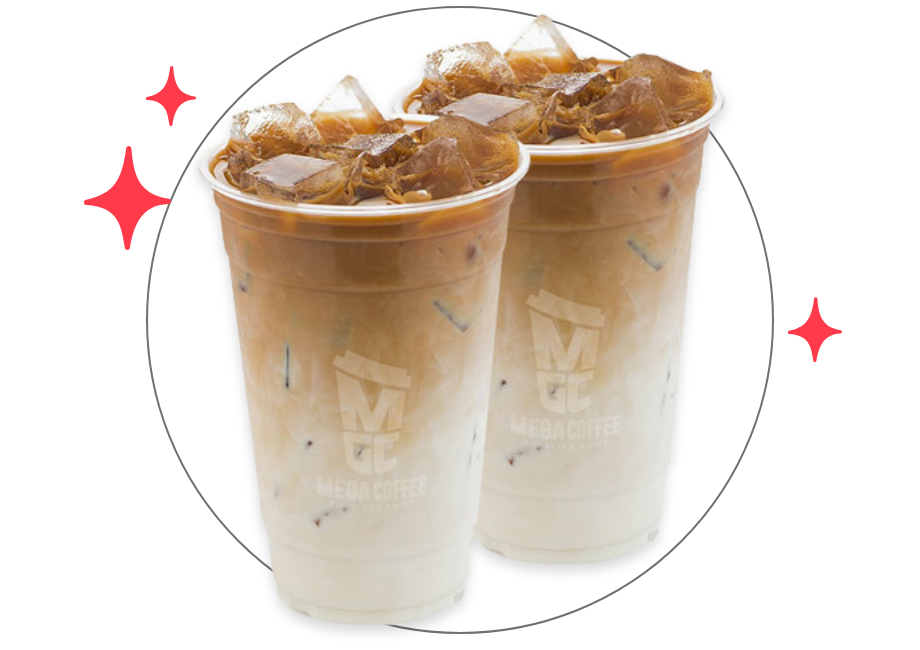
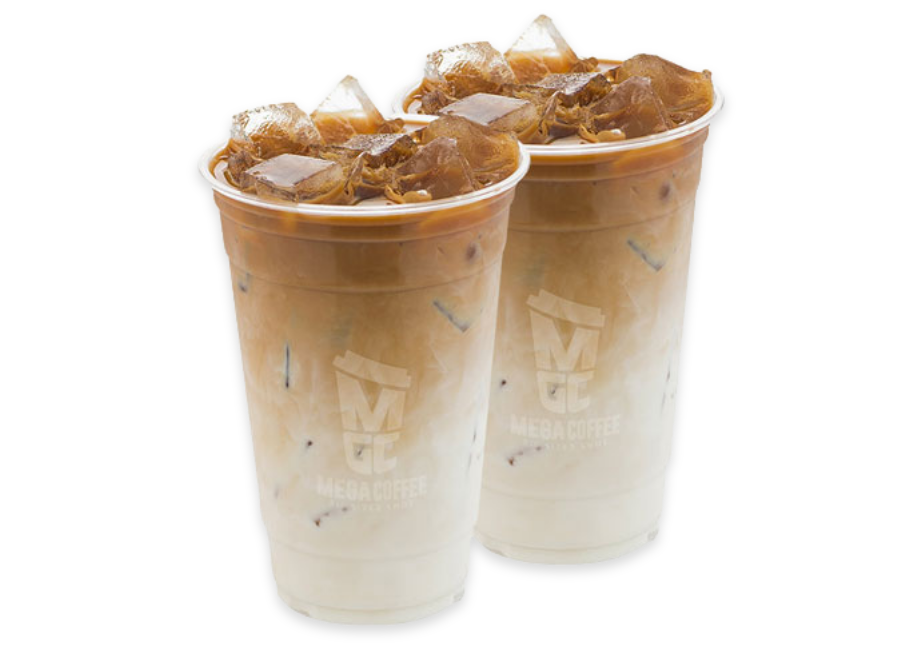
애니메이션 테스트.

diff --git a/event/ev_250730_review/html/ev_review_250730_test.html b/event/ev_250730_review/html/ev_review_250730_test.html
@@ -62,12 +62,32 @@
 		/* // 당첨 결과 문구 */
 
 		/* 당첨 결과 이미지 */
-		.result_product {margin-top:1.625em; padding:0 1.66666em;}
+		.result_product {position:relative; margin-top:1.625em; padding:0 1.66666em;}
 		.result_product .product_item {position:relative;}
 		.result_product .product_item .count {position:absolute; right:1.66666em; bottom:0.83333em; width:5em; height:5em; line-height:5em; text-align:center;}
-		.result_product .product_item .count::before {content:""; display:block; position:absolute; top:0; left:0; width:100%; height:100%; background:url('../images/count_bg.png') no-repeat left top / contain; animation: countBgAni 30s ease infinite;}
-		.result_product .product_item .count .total_count {position:relative; z-index:1; color:#fff; font-size:1.5em; font-weight:700; letter-spacing:-0.05em; text-shadow:0 0 2px rgba(0,0,0,0.16);}
+		.result_product .product_item::before {content:""; display:block; position:absolute; top:0; left:3.04166em; width:13.08333em; height:13.08333em; border:1px solid #707070; border-radius:100%; background-color:#fff;}
+		.result_product .product_item .count::before {content:""; display:block; position:absolute; top:0; left:0; width:100%; height:100%; background:url('../images/count_bg.svg') no-repeat left top / contain; animation: countBgAni 30s ease infinite;}
+		.result_product .product_item .count .total_count {position:relative; z-index:1; color:#fff; font-size:1.5em; font-weight:700; letter-spacing:-0.05em; text-shadow:0 0.08333em 0.16666em rgba(0,0,0,0.16);}
+		.result_product .product_item::before {animation: countBgAni 4s linear infinite; transform-origin:50% 49%;}
+
+		.result_product span.star,
+		.result_product::before,
+		.result_product::after {content:""; display:block; position:absolute; width:1.045em; height:1.25em; background:url('../images/deco_star.svg') no-repeat left top / contain;
+			animation-duration:1.4s;
+			animation-iteration-count:infinite;
+			animation-timing-function: ease-in-out;
+			animation-fill-mode:forwards;
+			opacity:0.5;
+		}
+		.result_product span.star {top:2.41666em; left:3.9375em; width:1.8125em; height:2.16458em; animation-name:starAni; animation-delay:0s;}
+		.result_product::before {top:0.6875em; left:5.75em; animation-name:starAni; animation-delay:0.5s;}
+		.result_product::after {top:6.33333em; right:3.29166em; animation-name:starAni; animation-delay:0.3s;}
 		@keyframes countBgAni {0% {transform:rotate(0deg);} 100% {transform:rotate(360deg);}}
+		@keyframes starAni {
+			0% {transform:scale(0.9); opacity:0.7;}
+			50% {transform:scale(1.1); opacity:1;}
+			100% {transform:scale(0.9); opacity:0.7;}
+		}
 		/* // 당첨 결과 이미지 */
 
 		/* 기프트샵 확인 방법 */
@@ -85,7 +105,7 @@
 
 		/* 기프트샵 바로가기 */
 		.gitfshop_wrap .btn_giftshop {display:flex; align-items:center; justify-content:center; gap:0.41666em; height:3.33333em; margin:1.25em auto 0; background-color:#FF3A4A; border-radius:0.83333em;}
-		.gitfshop_wrap .btn_giftshop strong.txt {display:inline-block; color:#fff; font-size:1em; font-weight:700;}
+		.gitfshop_wrap .btn_giftshop strong.txt {display:inline-block; color:#fff; font-size:1em; font-weight:700; text-shadow:0 0.08333em 0.16666em rgba(0,0,0,0.16);}
 		.gitfshop_wrap .btn_giftshop span.ico {display:inline-block; width:1.33333em; height:1.33333em; }
 		/* // 기프트샵 바로가기 */
 
@@ -95,12 +115,13 @@
 			padding-bottom:calc(constant(safe-area-inset-bottom) + 2.08333em); padding-bottom:calc(env(safe-area-inset-bottom) + 2.08333em);
 			background-color:#fff; color:#000; text-align:center;}
 		.event_list div.tag {display:inline-block; padding:0.29166em 1em; border:1px solid #888; border-radius:100px; }
-		.event_list div.tag strong {display:inline-block; color:#888; font-size:0.75em; line-height:1.5em;}
+		.event_list div.tag strong {display:inline-block; color:#888; font-size:0.75em; line-height:1.5em; letter-spacing:0;}
 		.event_list div.tit {padding:0.58333em 0 1.375em;}
 		.event_list div.tit p {color:#000; font-size:1.66666em; line-height:1.25em;}
 		.event_list div.tit p strong {display:block; font-weight:700;}
 		.event_list div.tit p span {display:block; font-weight:400;}
 		.event_list ul {display:flex; flex-direction:column; gap:0.833333em;}
+		.event_list ul li {border-radius:0.83333em; overflow:hidden;}
 		/* // 진행중 이벤트 */
 		
 		/* iOS 위치 수정 */
@@ -194,6 +215,7 @@
 							</div>
 						</div>
 						<!-- // product_item -->
+						<span class="star"></span>
 					</div>
 					<!-- // result_product -->
 				</div>
